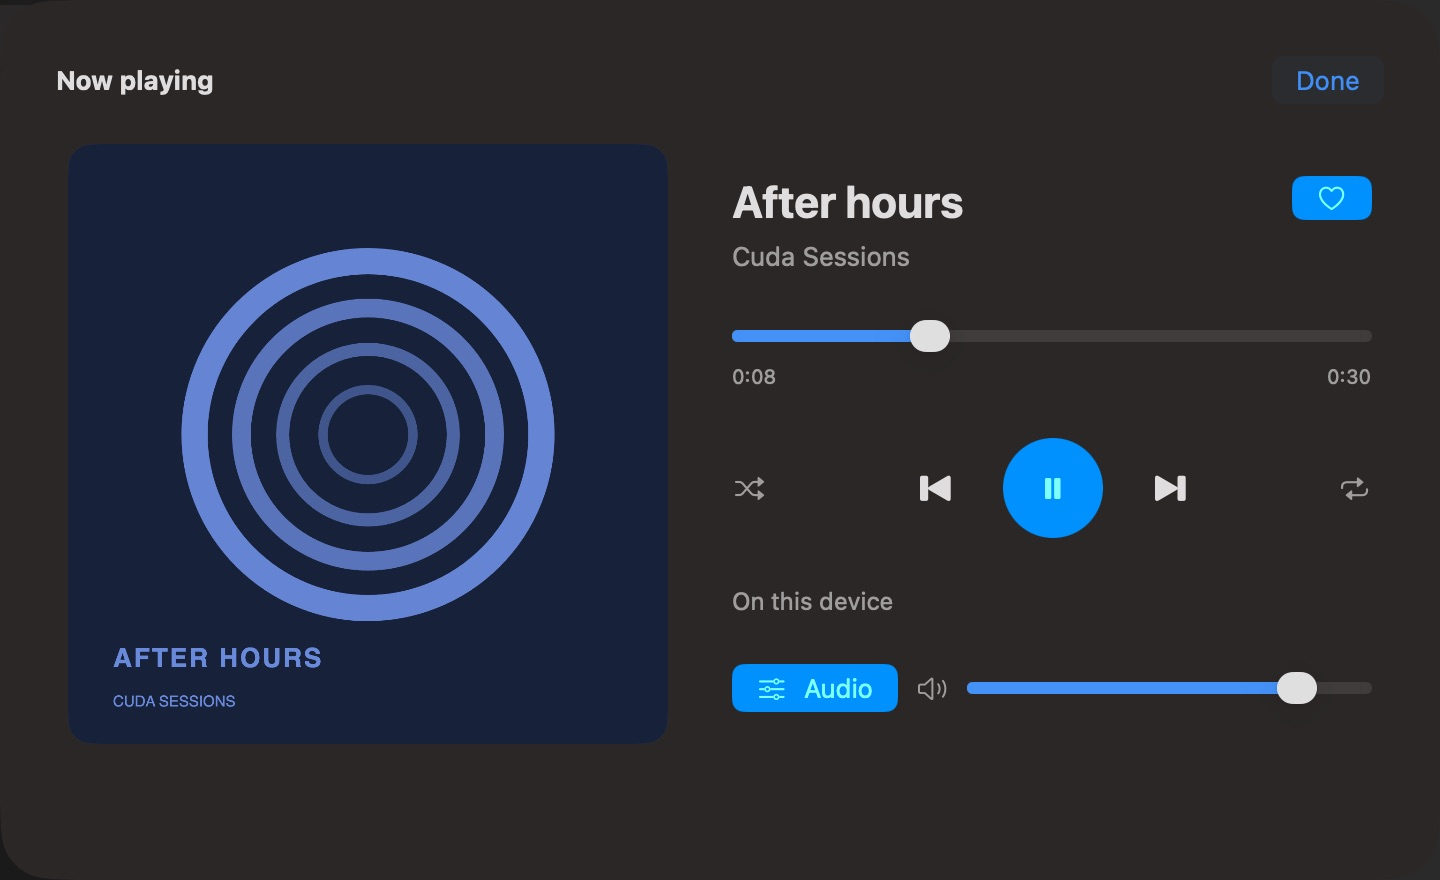
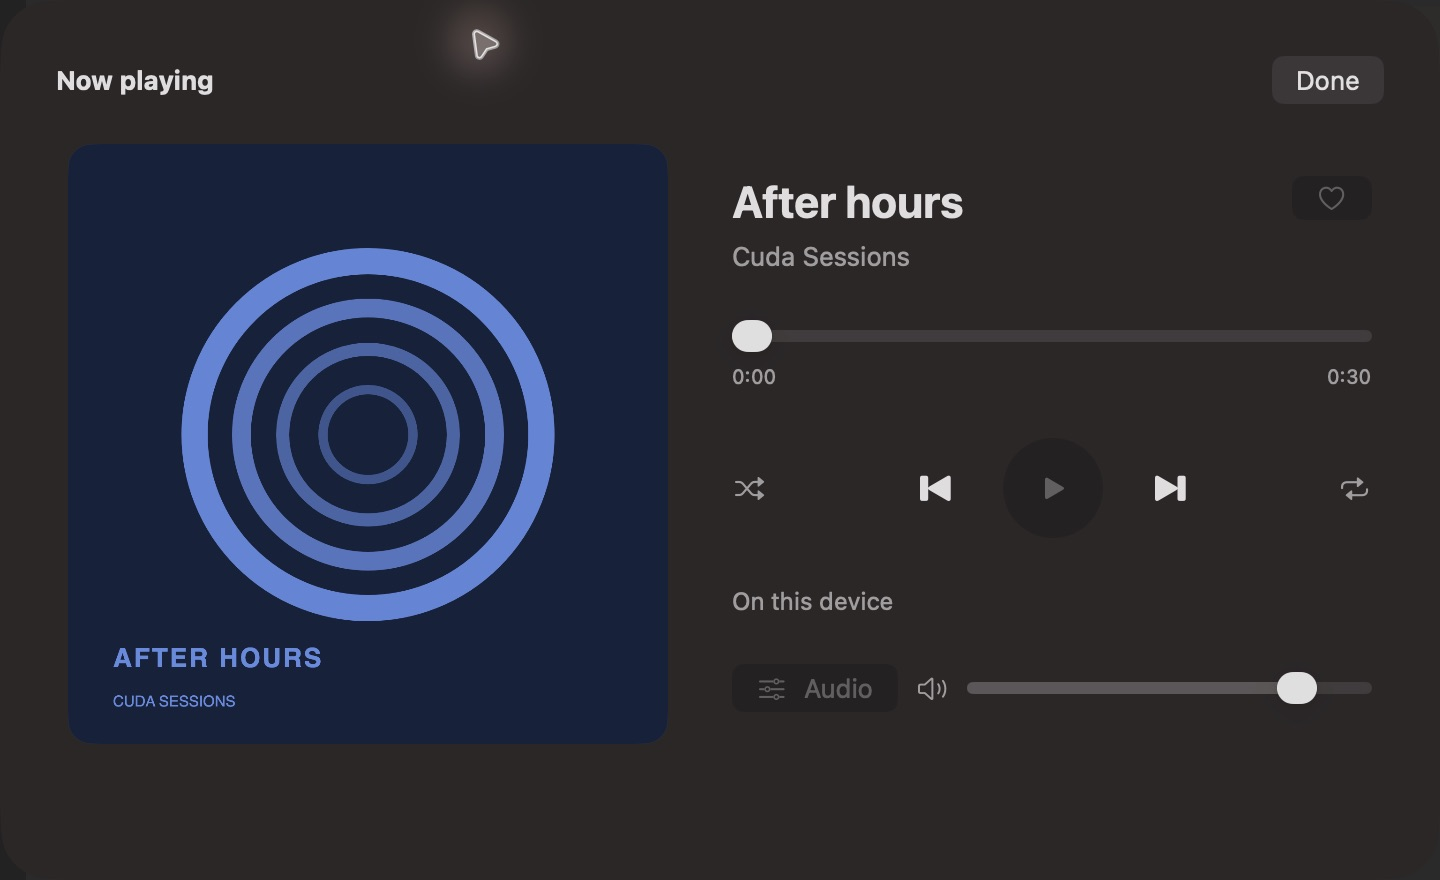
Add polished native Cuda promo images and retire Electron release references

diff --git a/docs/promo/README.md b/docs/promo/README.md
@@ -1,0 +1,11 @@
+# Cuda native promo images
+
+Three 3200 × 1800 PNGs (16:9): Home, Shelf, and the expanded player. Prepared on 11 October 2026 for Cuda Native 1.0.2.
+
+These are promotional compositions of real native SwiftUI app captures from an isolated demo profile. Cuda Sessions is an illustrative library with original artwork; no private user library, Spotify account information, or third-party album covers are shown. System accent color was retained. App captures are scaled and cropped for presentation, removing the titlebar and screen-sharing indicator; their interface is not AI-generated or repainted. The player is shown paused.
+
+The pearl and blue glass background was generated with the built-in image generation tool (new image, opaque background), then placed behind real screenshots and separately typeset HTML/CSS copy. The pack includes the original background, unchanged screen captures, editable HTML layouts, and the static export script. Its rendering tool is for marketing assets only and is not part of the native Cuda app.
+
+## Background generation prompt
+
+Use case: ads-marketing. Asset type: an original background photograph/render for Cuda, a calm native Mac music player, to sit behind real unmodified app screenshots and separately typeset copy. Create a premium Apple-inspired, 16:9 wide, very high resolution landscape studio composition. Pale pearl white and very faint ice blue setting, beautifully lit translucent curved glass sheets flowing along the far right and lower edges, like quiet waves of sound. Exquisite soft refraction, lightly frosted edges, subtle depth, diffused natural studio light, restrained polished realism. The central 75% and upper left must be largely empty luminous pale white with only very faint atmospheric color, providing clean space for an app screenshot and dark typography. Glass shapes must frame rather than dominate the composition. Elegant, serene, minimal, clean high quality rendering. No screens, no UI, no computers, no phone, no devices, no lettering, no symbols, no logos, no watermark, no neon, no harsh shadows, no clutter, no dark themes.

diff --git a/README.md b/README.md
@@ -1,5 +1,5 @@
 <p align="center">
-  <img src="docs/images/cuda-native-home.png" alt="Cuda for Mac — a calm home for your music" width="100%">
+  <img src="docs/images/cuda-native-promo-hero.png" alt="Cuda for Mac — a calm home for your music" width="100%">
 </p>
 
 # Cuda
@@ -22,17 +22,26 @@ Built with help from ChatGPT
 - **Comfortable on your Mac.** Light, dark, and system appearance; adjustable window transparency; native traffic lights; keyboard shortcuts; and an adaptive layout for narrow windows.
 
 <p align="center">
-  <img src="docs/images/cuda-native-shelf.png" alt="Cuda native Shelf in dark appearance with favourites and playlists" width="100%">
+  <img src="docs/images/cuda-native-promo-shelf.png" alt="Cuda native Shelf — favourites and playlists, kept close" width="100%">
 </p>
 
-<table>
-  <tr>
-    <td width="68%"><img src="docs/images/cuda-native-player.png" alt="Cuda's expanded player in dark appearance"></td>
-    <td width="32%"><img src="docs/images/cuda-native-player-narrow.png" alt="Cuda's adaptive player in a narrow window"></td>
-  </tr>
-</table>
+<p align="center">
+  <img src="docs/images/cuda-native-promo-player.png" alt="Cuda's native expanded player in dark appearance" width="100%">
+</p>
 
-*Screenshots show the actual Mac app with an illustrative Cuda Sessions library and original demo artwork. The narrow layout is a resized desktop window.*
+*Promo images combine actual native Mac app screens with an illustrative Cuda Sessions library, original demo artwork, and a generated glass background. [Image details](docs/promo/README.md).*
+
+<details>
+<summary>View the original native app screenshots</summary>
+
+![Home](docs/images/cuda-native-home.png)
+![Shelf](docs/images/cuda-native-shelf.png)
+![Expanded player](docs/images/cuda-native-player.png)
+![Narrow desktop player](docs/images/cuda-native-player-narrow.png)
+
+The narrow layout is a resized desktop window.
+
+</details>
 
 ## Build for Mac
 

diff --git a/macos/README.md b/macos/README.md
@@ -60,7 +60,7 @@ macos/build/model-checks
 
 Run audio checks outside a restrictive shell sandbox so Apple's audio components can initialize. `StreamChecks.swift` verifies HTTP stream decoding, pause/resume, effects, seek, and decoder shutdown against a local fixture service. Node regression tests cover catalog operations, source selection/failover, HLS proxy headers, ranges, encryption, and Unicode Shelf migration. CI builds the same native arm64 app on macOS 26.
 
-The provided build is ad-hoc signed, not Apple-notarized. A downloaded build may require **Open Anyway** in macOS Privacy & Security. Installing it does not erase the legacy profile; the previous Electron release remains available for rollback.
+The provided build is ad-hoc signed, not Apple-notarized. A downloaded build may require **Open Anyway** in macOS Privacy & Security. Installing it does not erase the legacy profile; the legacy source remains in the repository, and previous app backups can be retained locally. The Electron GitHub release has been retired.
 
 ## Design and credits
 
